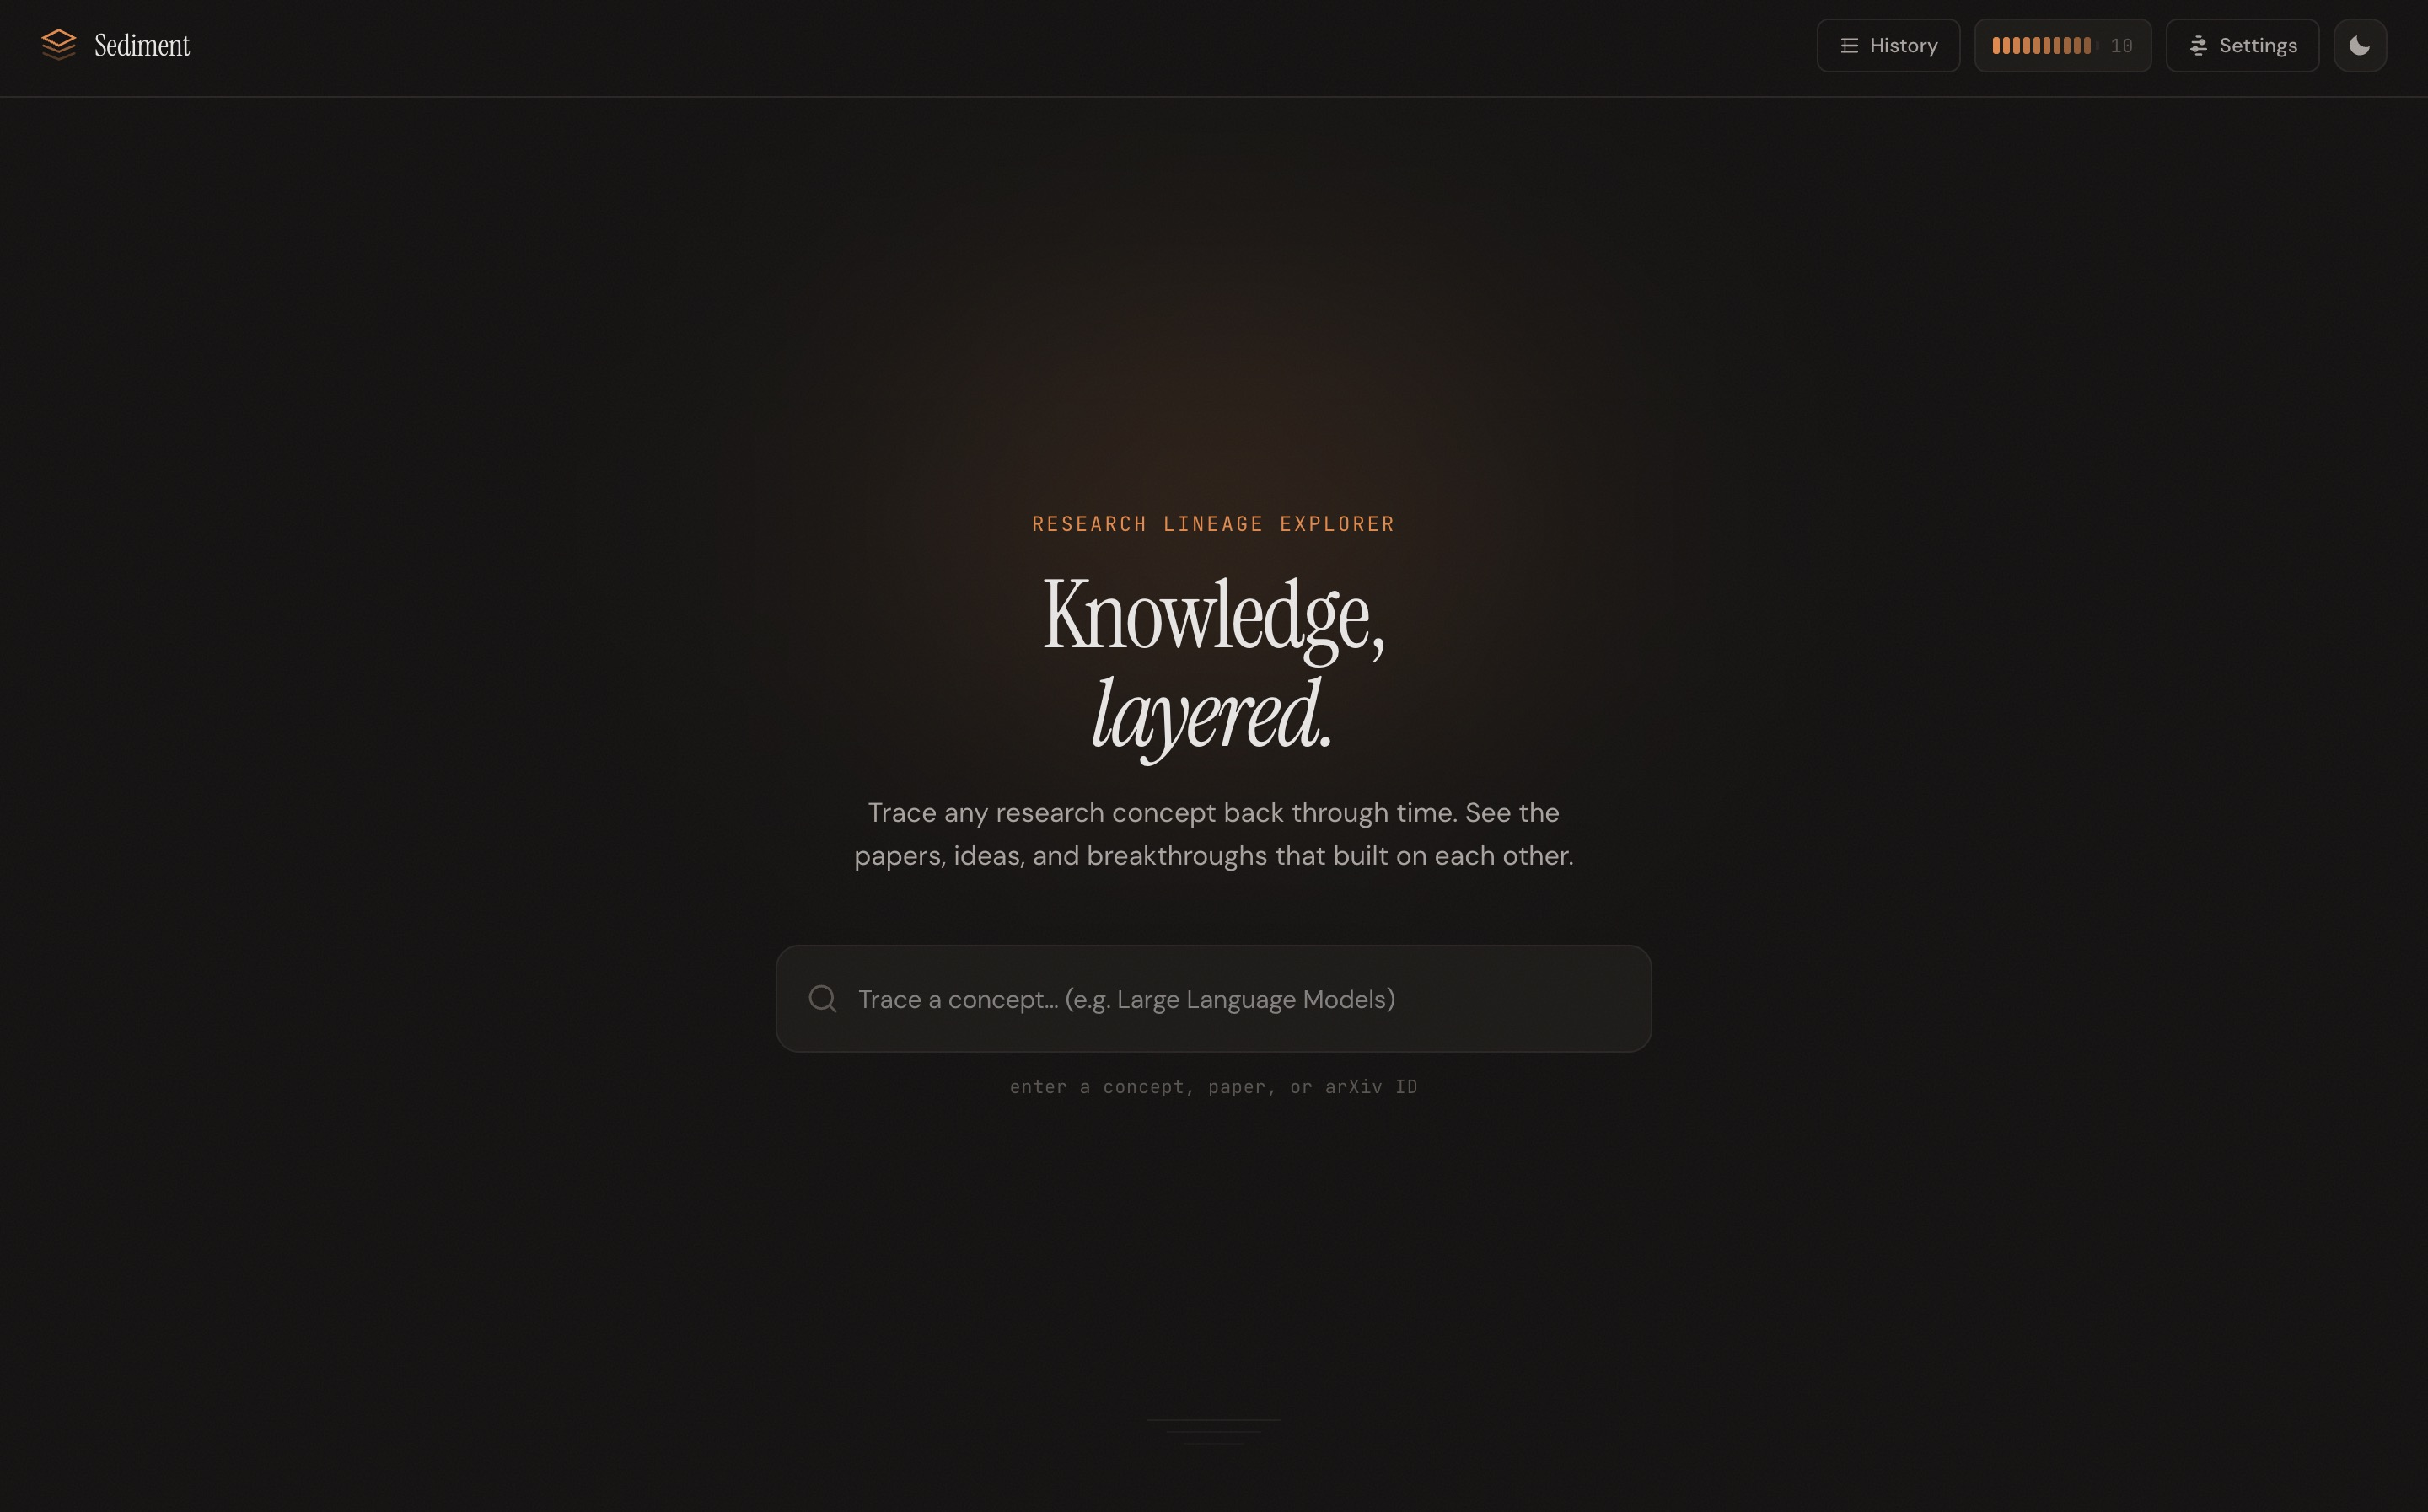
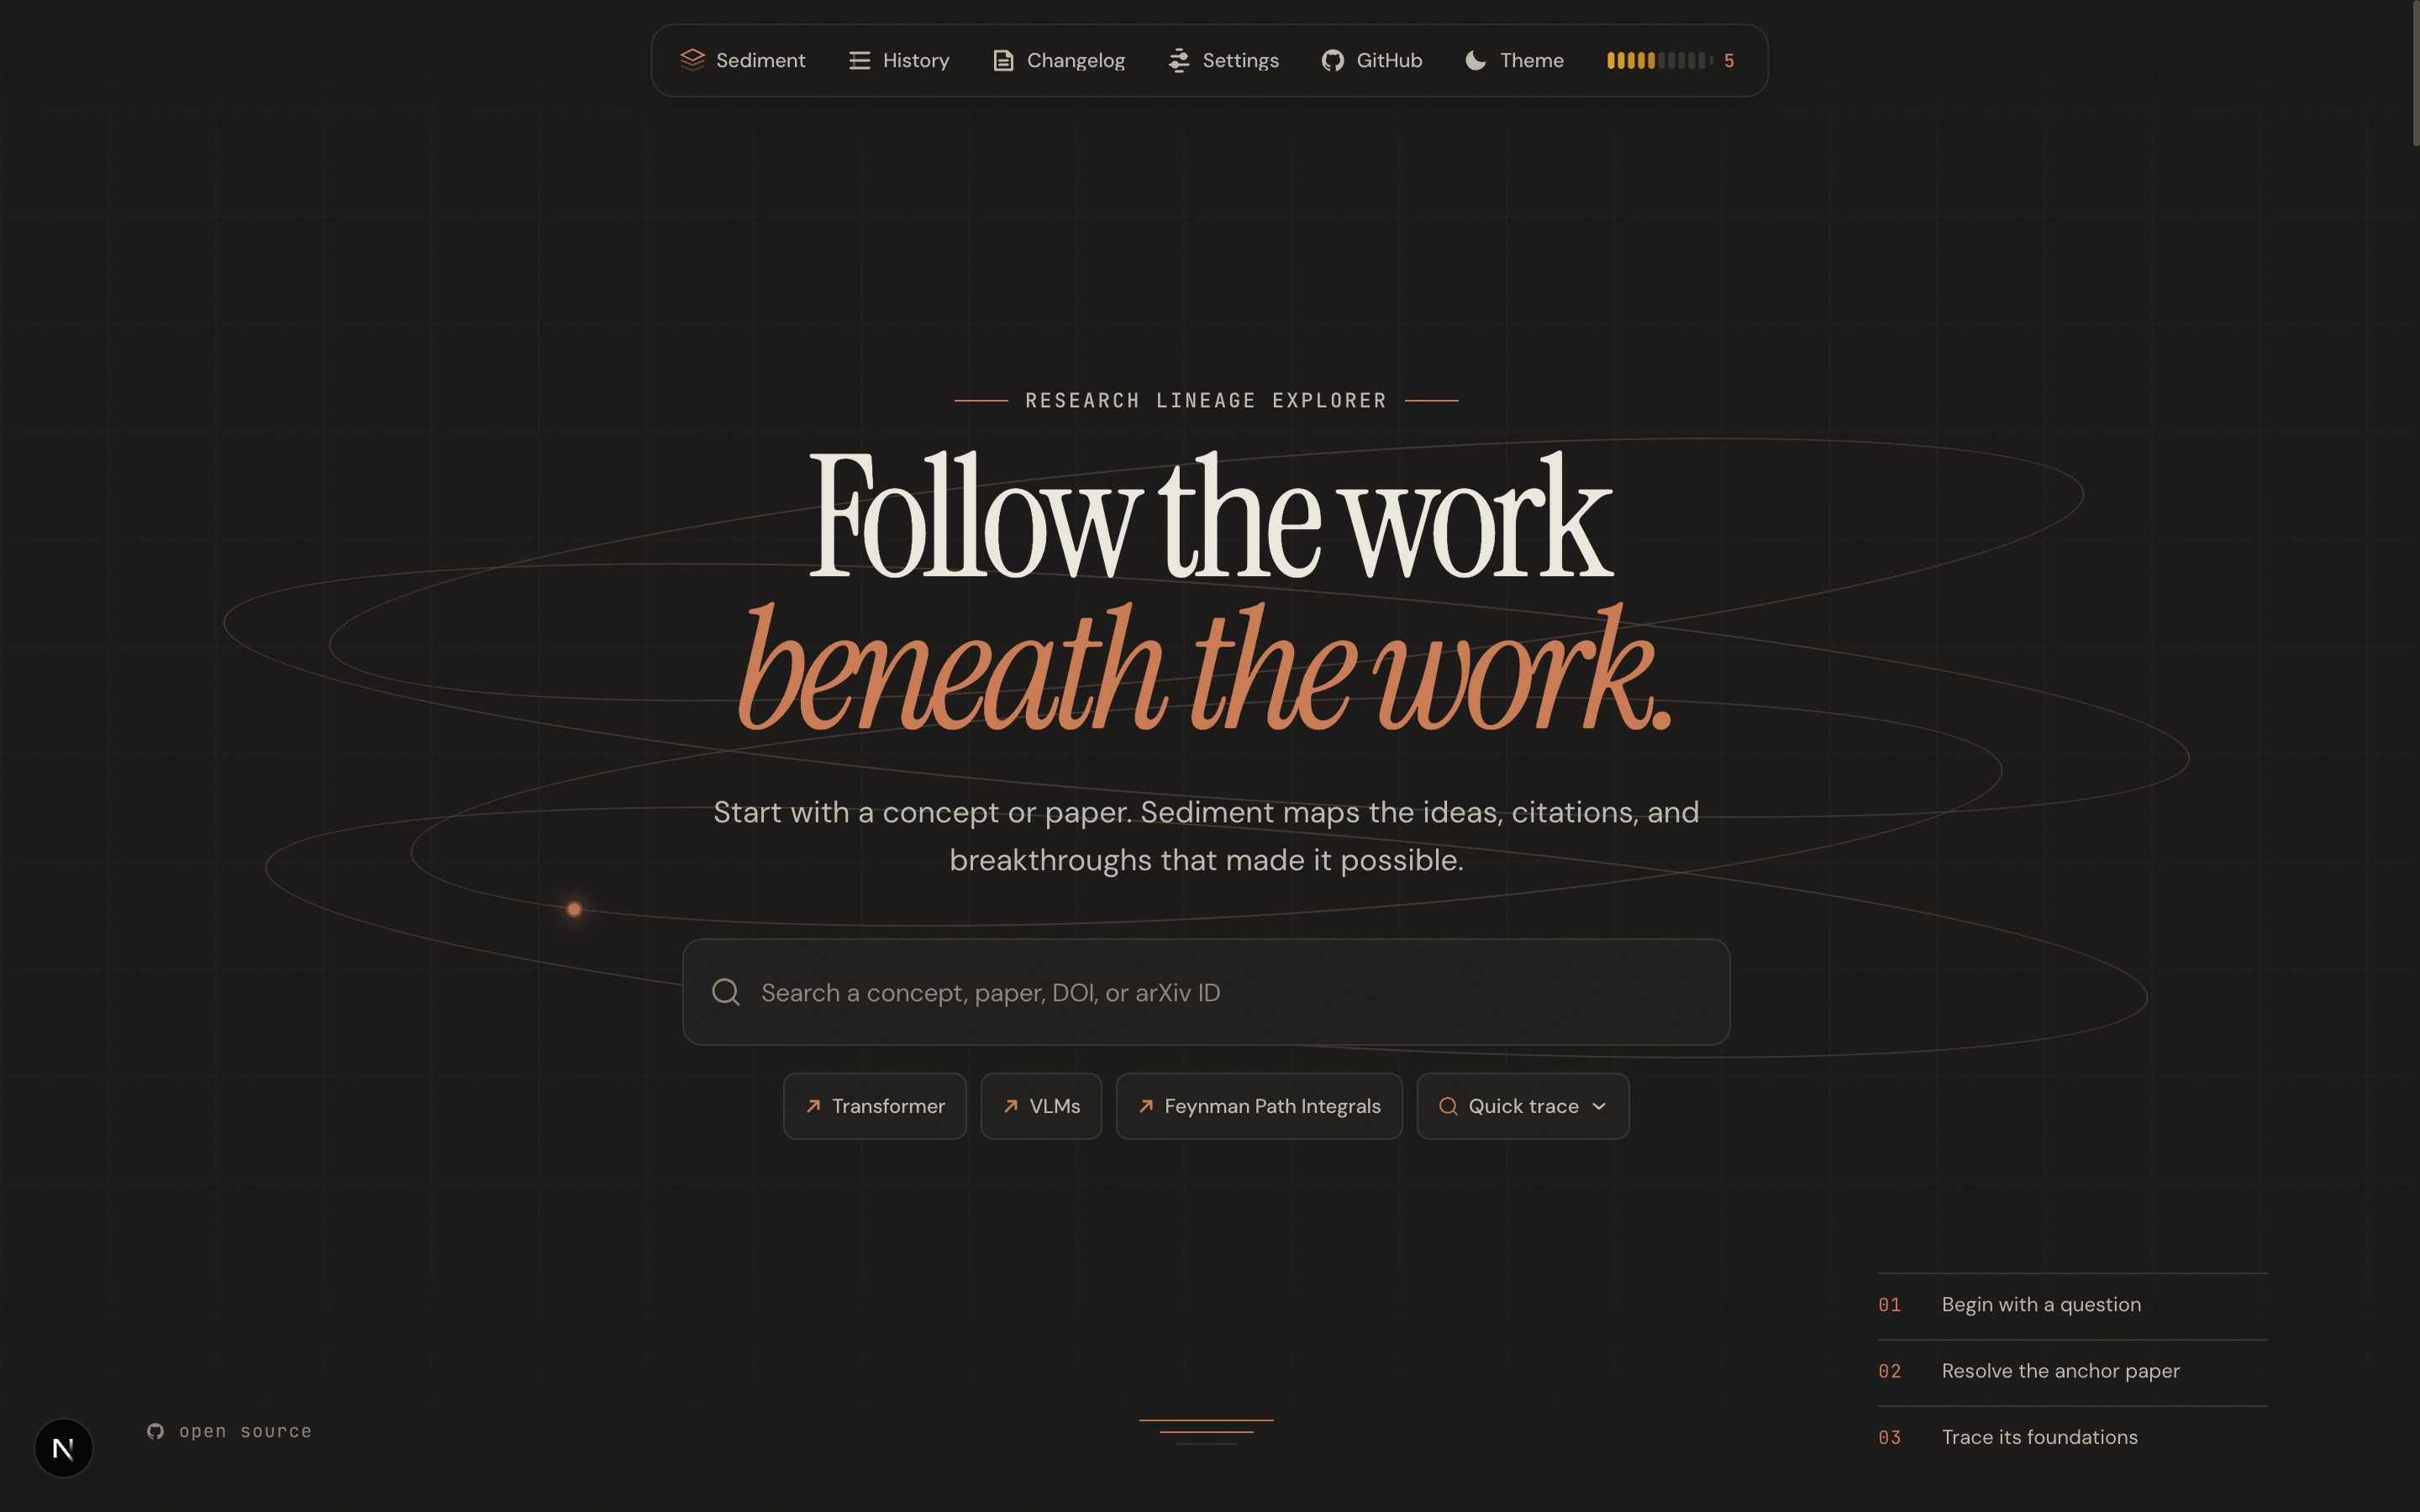
Merge pull request #88 from shresthkapoor7/ui#84
sediment: minor changes to readme

Pull request: sediment: minor changes to readme

diff --git a/README.md b/README.md
@@ -4,7 +4,7 @@
 
 > Trace any research concept back through time. Knowledge, layered.
 
-Sediment is an agent-powered research lineage explorer. Enter a concept or paper, and it traces the intellectual ancestry — surfacing the key papers, ideas, and breakthroughs that led to it, rendered as an interactive chronological timeline you can explore and expand.
+Sediment is an agentic research lineage explorer, built to be the 'cursor for academic research.' Enter any concept or paper, and sediment recursively compiles its intellectual ancestry: mapping the exact theoretical dependencies, seminal citations, and core breakthroughs that made it possible, rendered as an interactive, chronological graph you can deep-trace and expand.
 
 ## Stack
 